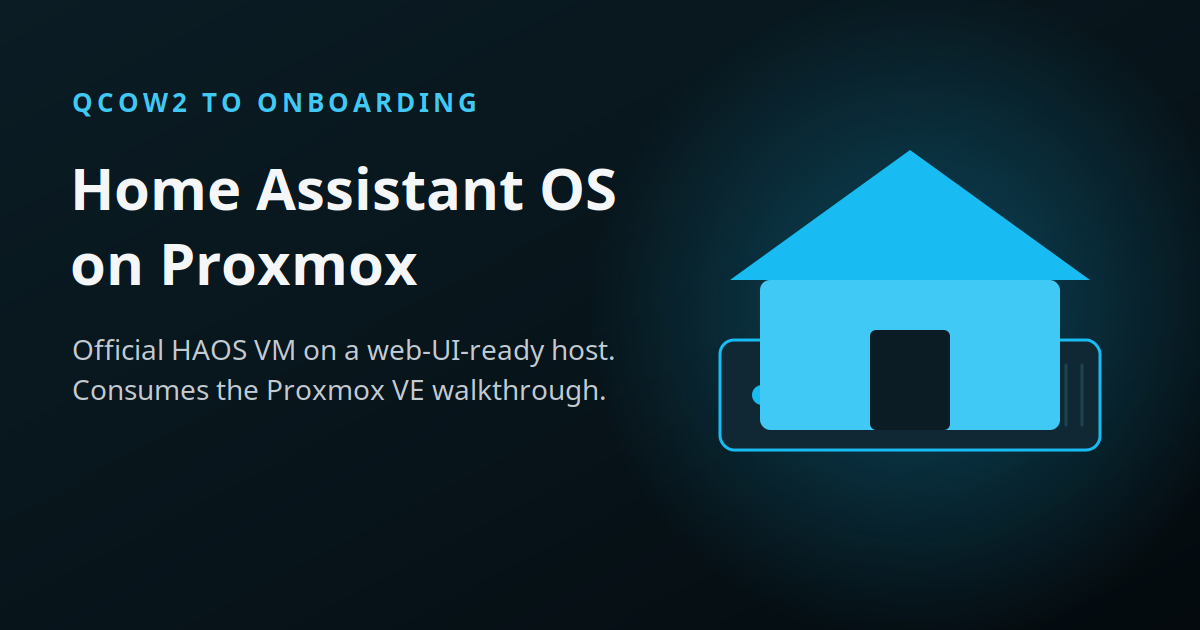
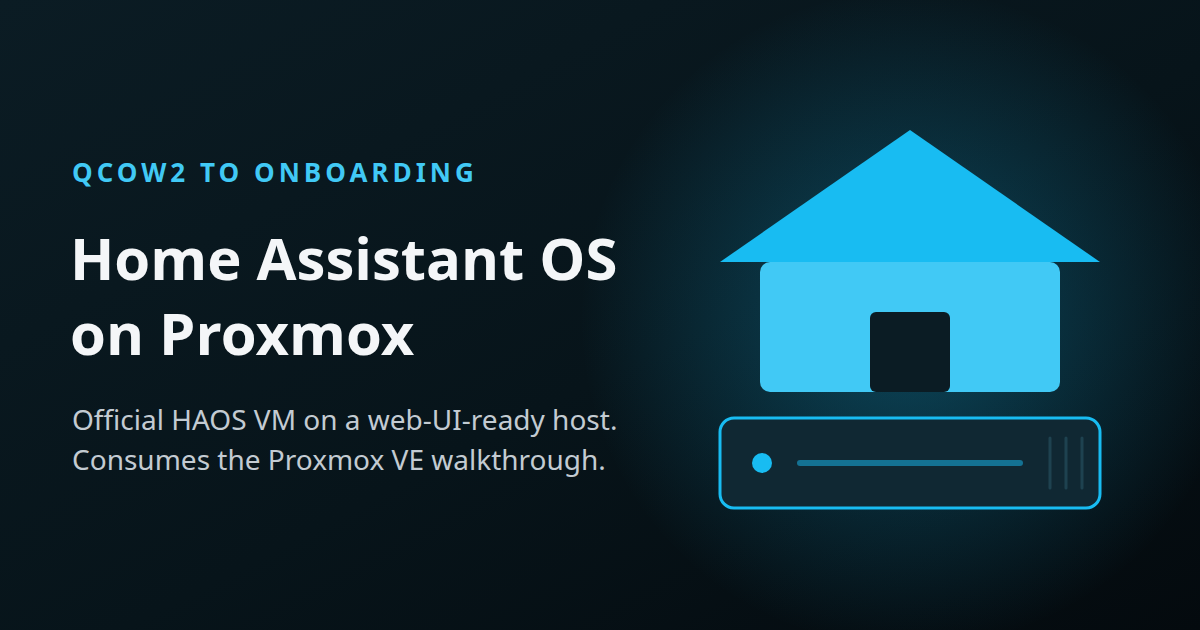
docs: refine brand art and create-vm advanced note (#5)
Separate the house and rack in favicon/OG art so they no longer overlap,
and tell readers to tick Advanced so Start at boot stays visible. Soften
the Guest OS version line to the Proxmox default.

diff --git a/docs/create-vm.md b/docs/create-vm.md
@@ -3,16 +3,19 @@
 In the Proxmox web UI, open **Create VM**. Leave **Start after created** off —
 you import the disk next.
 
-![Create VM, General: name haos, VMID 100, Start at boot](assets/create-vm/01-general.jpg)
+![Create VM, General: name haos, VMID 100](assets/create-vm/01-general.jpg)
 
 ## General
+
+Tick **Advanced** at the bottom of the wizard once. It keeps the extra fields
+(Start at boot, CPU flags, memory ballooning) visible on every tab.
 
 | Field | Value |
 | --- | --- |
 | Node | your Proxmox node (example `pve`) |
 | VM ID | free ID (example `100`; use `pvesh get /cluster/nextid`) |
 | Name | `haos` |
-| Start at boot | on |
+| Start at boot | on (shown with **Advanced** ticked) |
 
 ## OS
 
@@ -20,7 +23,7 @@ you import the disk next.
 | --- | --- |
 | ISO image | **Do not use any media** |
 | Guest OS type | Linux |
-| Version | 6.x - 2.6 Kernel |
+| Version | Leave the default (`7.x - 2.6 Kernel` on current Proxmox VE) |
 
 ![OS tab: Do not use any media](assets/create-vm/02-os.jpg)
 
